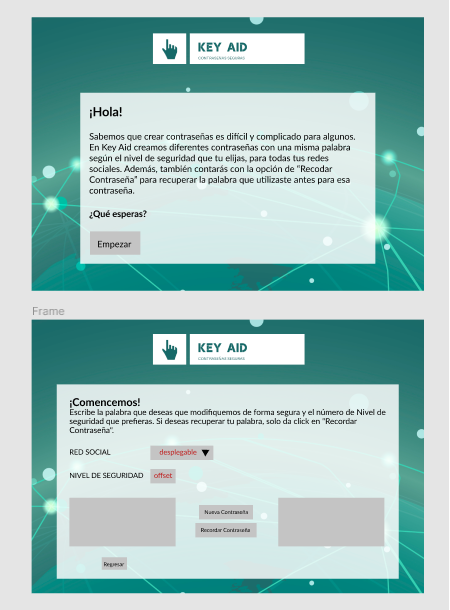
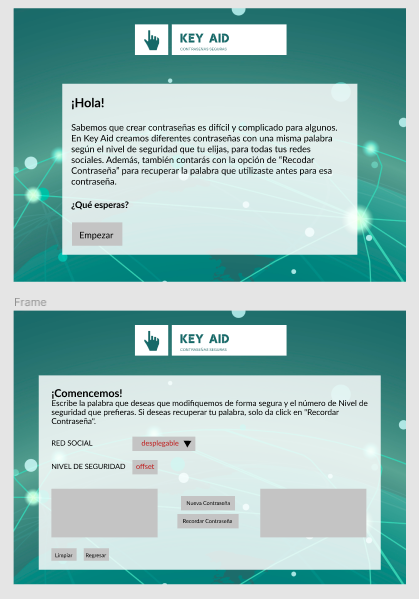
Se modifica prototipo final Figma

diff --git a/README.md b/README.md
@@ -16,7 +16,7 @@ Key Aid es una web app que ayuda a usuarios a crear contraseñas seguras con una
 
 ## Investigación UX:
 
-### i. Objetivos en relacion con el producto.
+### 1. Objetivos en relacion con el producto.
   #### 1. ¿Quienes son los usuarios?
   Usuarios que utilizan diariamente diferentes plataformas digitales para todas sus comunicaciones o transacciones.
   #### 2. Objetivos:
@@ -33,9 +33,9 @@ Key Aid brinda una alternativa segura de cifrado de contraseñas, mediante la pa
 
 ### 4. Feedback de las mejoras a realizar:
 
-Hacer los botones de Cifrado y Descifrado entendibles para el usuario, se modifico "Nueva Contraseña" y "Recordar Contraseña".
-Mejorar la paleta de colores del contenedor y botones.
-Poner wallpaper (imagen de fondo) a toda la web app.
+1. Hacer los botones de Cifrado y Descifrado entendibles para el usuario, se modifico "Nueva Contraseña" y "Recordar Contraseña".
+2. Mejorar la paleta de colores del contenedor y botones.
+3. Poner wallpaper (imagen de fondo) a toda la web app.
 
 ### 5. Prototipo final:
 
